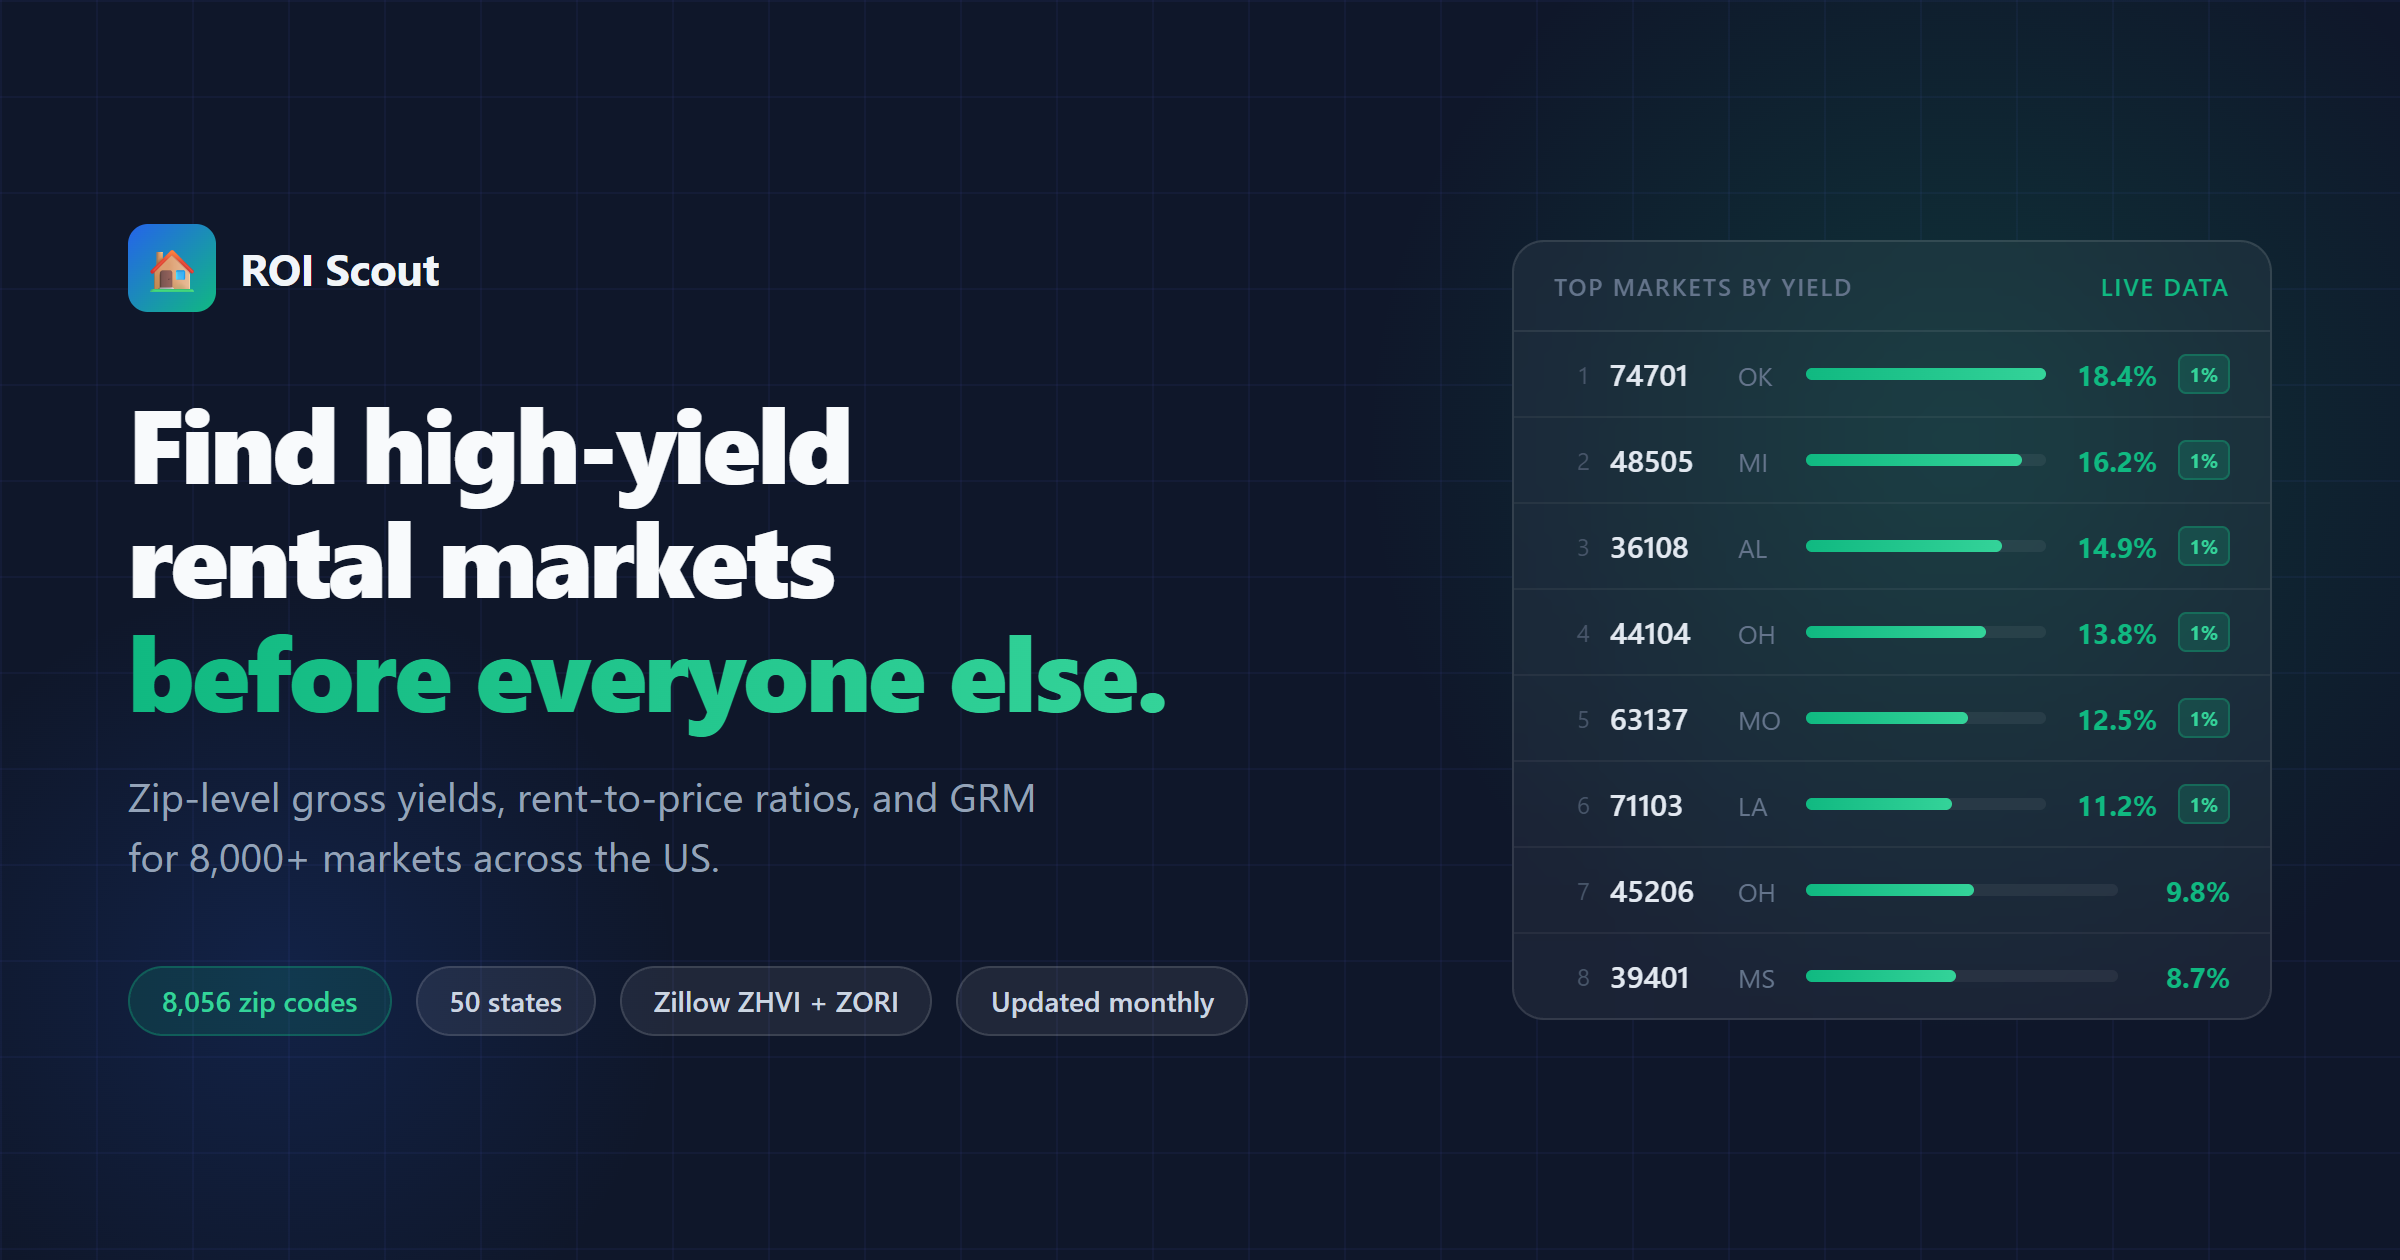
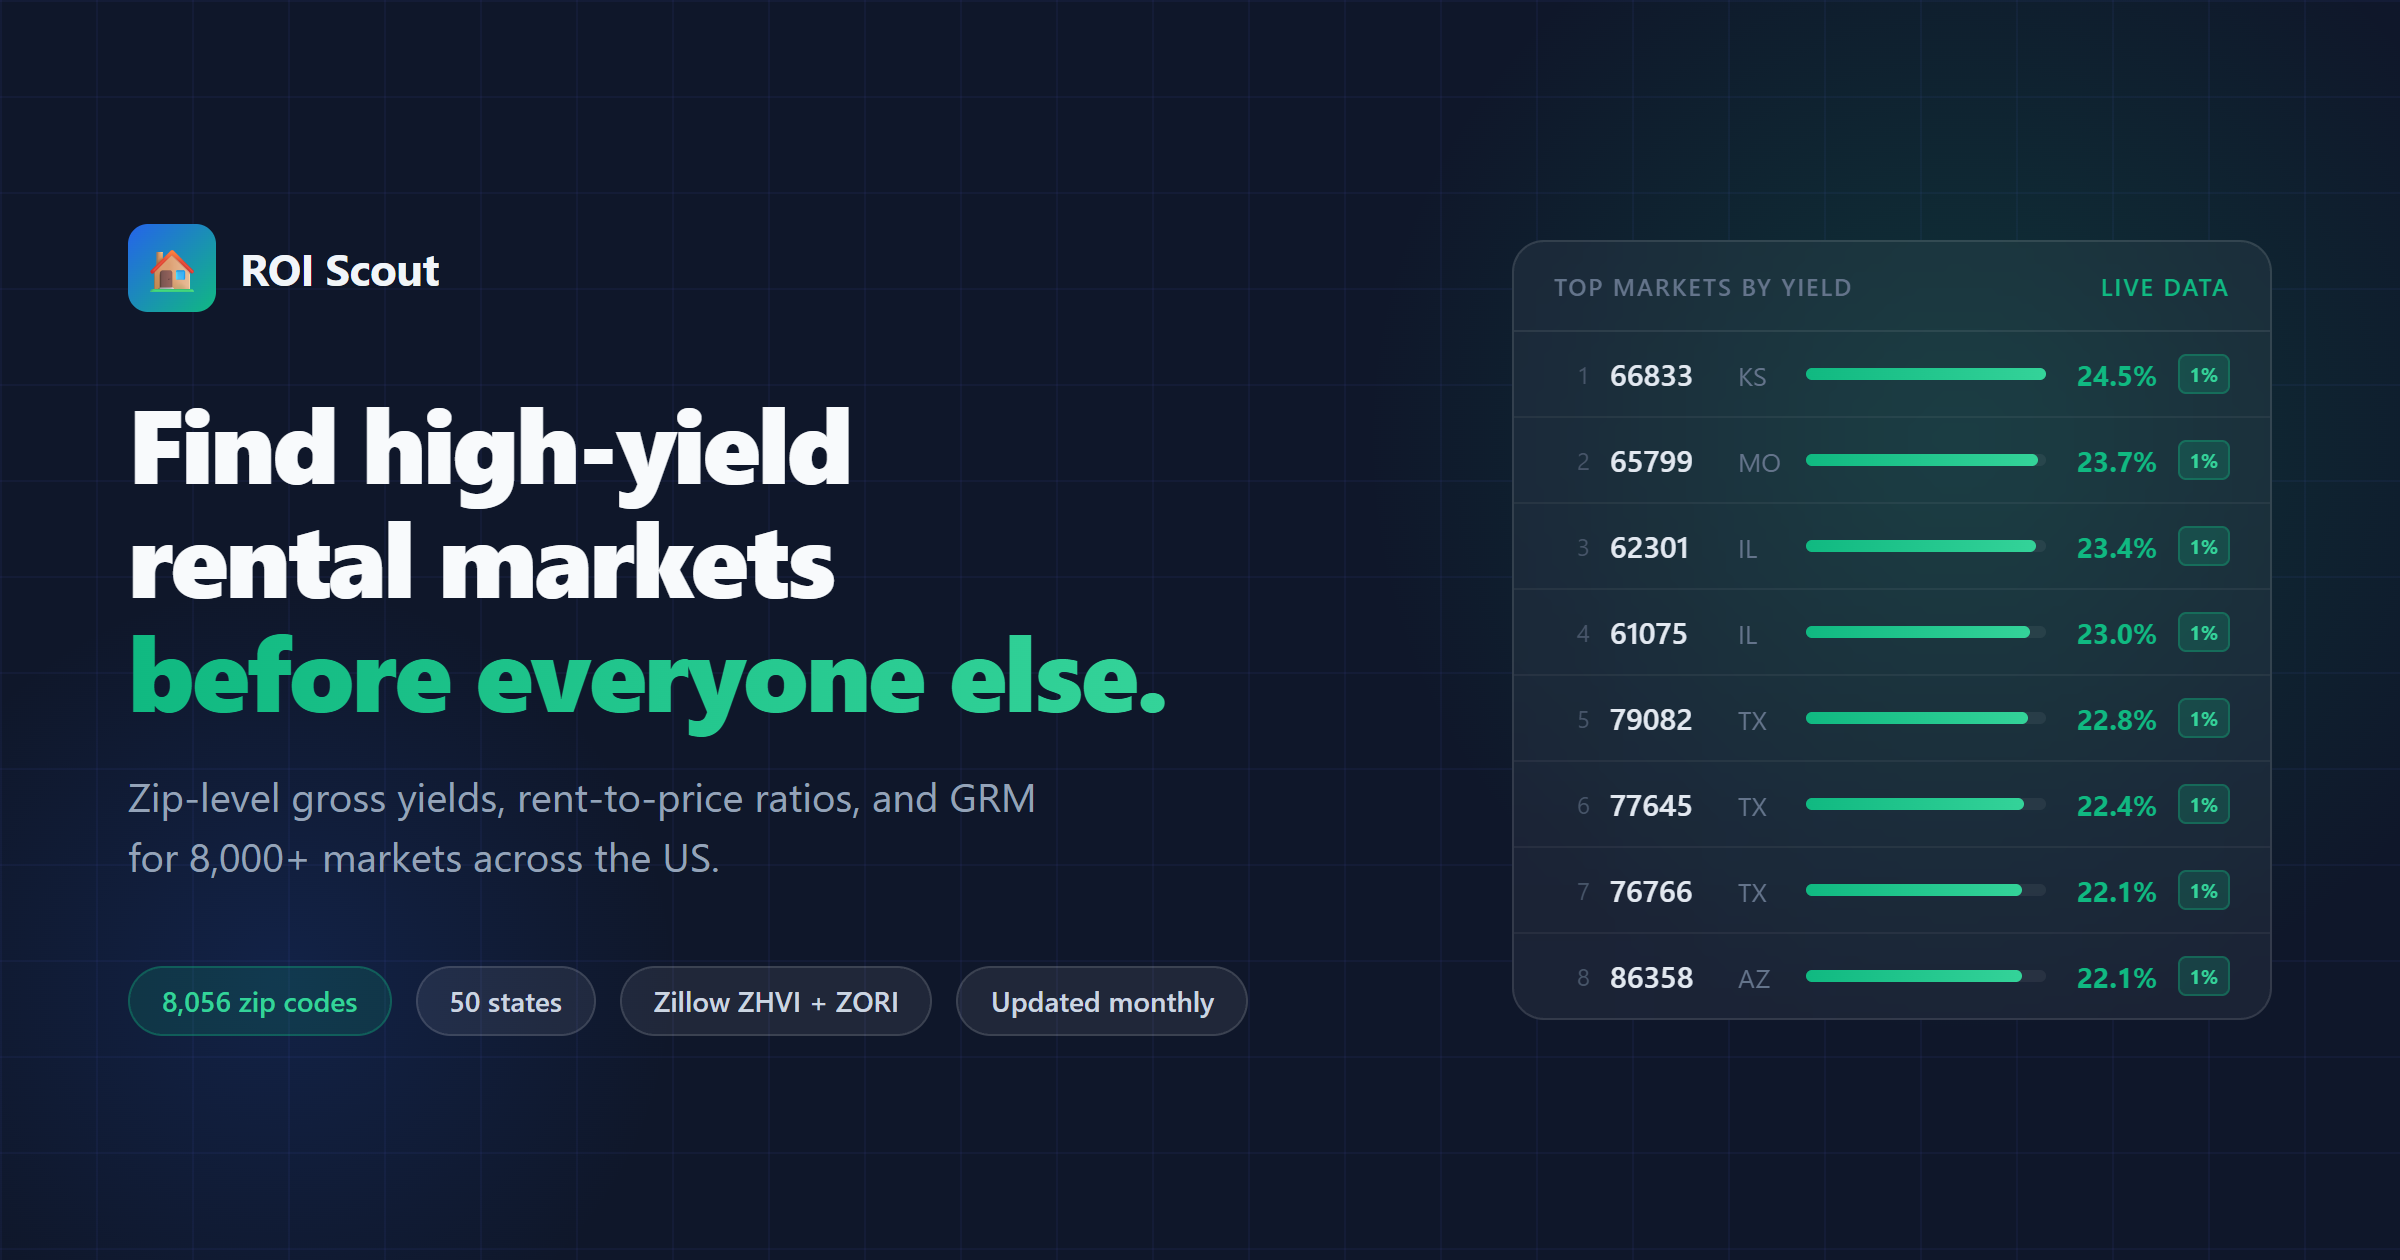
Refresh OG image with real DB yield data
Replace placeholder zip codes with actual top markets from Railway DB
(filtered: yield < 25%, price >= $60k, rent >= $600/mo).
Top market: 66833 KS at 24.5% gross yield.

diff --git a/frontend/public/og-image-source.html b/frontend/public/og-image-source.html
@@ -265,65 +265,67 @@
 
         <div class="row">
           <div class="rank">1</div>
-          <div class="zip">74701</div>
-          <div class="state">OK</div>
+          <div class="zip">66833</div>
+          <div class="state">KS</div>
           <div class="bar-wrap"><div class="bar" style="width:100%"></div></div>
-          <div class="yield">18.4%</div>
+          <div class="yield">24.5%</div>
           <div class="badge">1%</div>
         </div>
         <div class="row">
           <div class="rank">2</div>
-          <div class="zip">48505</div>
-          <div class="state">MI</div>
-          <div class="bar-wrap"><div class="bar" style="width:90%"></div></div>
-          <div class="yield">16.2%</div>
+          <div class="zip">65799</div>
+          <div class="state">MO</div>
+          <div class="bar-wrap"><div class="bar" style="width:97%"></div></div>
+          <div class="yield">23.7%</div>
           <div class="badge">1%</div>
         </div>
         <div class="row">
           <div class="rank">3</div>
-          <div class="zip">36108</div>
-          <div class="state">AL</div>
-          <div class="bar-wrap"><div class="bar" style="width:82%"></div></div>
-          <div class="yield">14.9%</div>
+          <div class="zip">62301</div>
+          <div class="state">IL</div>
+          <div class="bar-wrap"><div class="bar" style="width:96%"></div></div>
+          <div class="yield">23.4%</div>
           <div class="badge">1%</div>
         </div>
         <div class="row">
           <div class="rank">4</div>
-          <div class="zip">44104</div>
-          <div class="state">OH</div>
-          <div class="bar-wrap"><div class="bar" style="width:75%"></div></div>
-          <div class="yield">13.8%</div>
+          <div class="zip">61075</div>
+          <div class="state">IL</div>
+          <div class="bar-wrap"><div class="bar" style="width:94%"></div></div>
+          <div class="yield">23.0%</div>
           <div class="badge">1%</div>
         </div>
         <div class="row">
           <div class="rank">5</div>
-          <div class="zip">63137</div>
-          <div class="state">MO</div>
-          <div class="bar-wrap"><div class="bar" style="width:68%"></div></div>
-          <div class="yield">12.5%</div>
+          <div class="zip">79082</div>
+          <div class="state">TX</div>
+          <div class="bar-wrap"><div class="bar" style="width:93%"></div></div>
+          <div class="yield">22.8%</div>
           <div class="badge">1%</div>
         </div>
         <div class="row">
           <div class="rank">6</div>
-          <div class="zip">71103</div>
-          <div class="state">LA</div>
-          <div class="bar-wrap"><div class="bar" style="width:61%"></div></div>
-          <div class="yield">11.2%</div>
+          <div class="zip">77645</div>
+          <div class="state">TX</div>
+          <div class="bar-wrap"><div class="bar" style="width:91%"></div></div>
+          <div class="yield">22.4%</div>
           <div class="badge">1%</div>
         </div>
         <div class="row">
           <div class="rank">7</div>
-          <div class="zip">45206</div>
-          <div class="state">OH</div>
-          <div class="bar-wrap"><div class="bar" style="width:54%"></div></div>
-          <div class="yield">9.8%</div>
+          <div class="zip">76766</div>
+          <div class="state">TX</div>
+          <div class="bar-wrap"><div class="bar" style="width:90%"></div></div>
+          <div class="yield">22.1%</div>
+          <div class="badge">1%</div>
         </div>
         <div class="row">
           <div class="rank">8</div>
-          <div class="zip">39401</div>
-          <div class="state">MS</div>
-          <div class="bar-wrap"><div class="bar" style="width:48%"></div></div>
-          <div class="yield">8.7%</div>
+          <div class="zip">86358</div>
+          <div class="state">AZ</div>
+          <div class="bar-wrap"><div class="bar" style="width:90%"></div></div>
+          <div class="yield">22.1%</div>
+          <div class="badge">1%</div>
         </div>
       </div>
     </div>